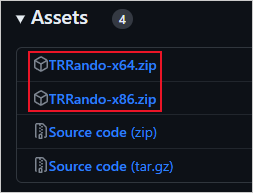
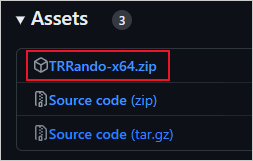
Remove 32-bit support (#762)
Resolves #759.

diff --git a/USING.md b/USING.md
@@ -60,7 +60,7 @@ Note too that some files are shared so if you randomize TR1R, you may for exampl
 
 ## Installing the Randomizer
 Setting up the randomizer itself is straight-forward.
-1. Download the latest release from https://github.com/LostArtefacts/TR-Rando/releases/latest. Make sure to download the `TRRando` zip file and not the source code. Choose the x64 or x86 version, depending on your system.
+1. Download the latest release from https://github.com/LostArtefacts/TR-Rando/releases/latest. Make sure to download the `TRRando-x64.zip` file and not the source code.
 
     ![Release example](Resources/Using/release.png)
     
@@ -129,10 +129,9 @@ You may see the following error message when you try to launch the randomizer - 
 
 ![.NET Core missing](Resources/Using/netcore.png)
 
-If however the randomizer doesn't launch, but you don't see the above error, you can install the runtime manually. Use one of the following links depending on your system.
+If however the randomizer doesn't launch, but you don't see the above error, you can install the runtime manually using the link below.
 
-- x64: https://aka.ms/dotnet/6.0/windowsdesktop-runtime-win-x64.exe
-- x86: https://aka.ms/dotnet/6.0/windowsdesktop-runtime-win-x86.exe
+- https://aka.ms/dotnet/6.0/windowsdesktop-runtime-win-x64.exe
 
 ### General issues
 If you encounter error messages during randomization, the most likely cause is unclean data files. In this case, you should follow these steps.

diff --git a/CHANGELOG.md b/CHANGELOG.md
@@ -1,6 +1,7 @@
 ## [Unreleased](https://github.com/LostArtefacts/TR-Rando/compare/V1.9.2...master) - xxxx-xx-xx
 - fixed dark pickup sprites in TR2R OG graphics (#760)
 - fixed gun pickup sprites not showing properly in TR2R Floating Islands and Dragon's Lair OG graphics (#760)
+- removed support for 32-bit (#759)
 
 ## [V1.9.2](https://github.com/LostArtefacts/TR-Rando/compare/V1.9.1...V1.9.2) - 2024-08-20
 - added support for level sequence randomization in TR1R and TR2R (#756)
